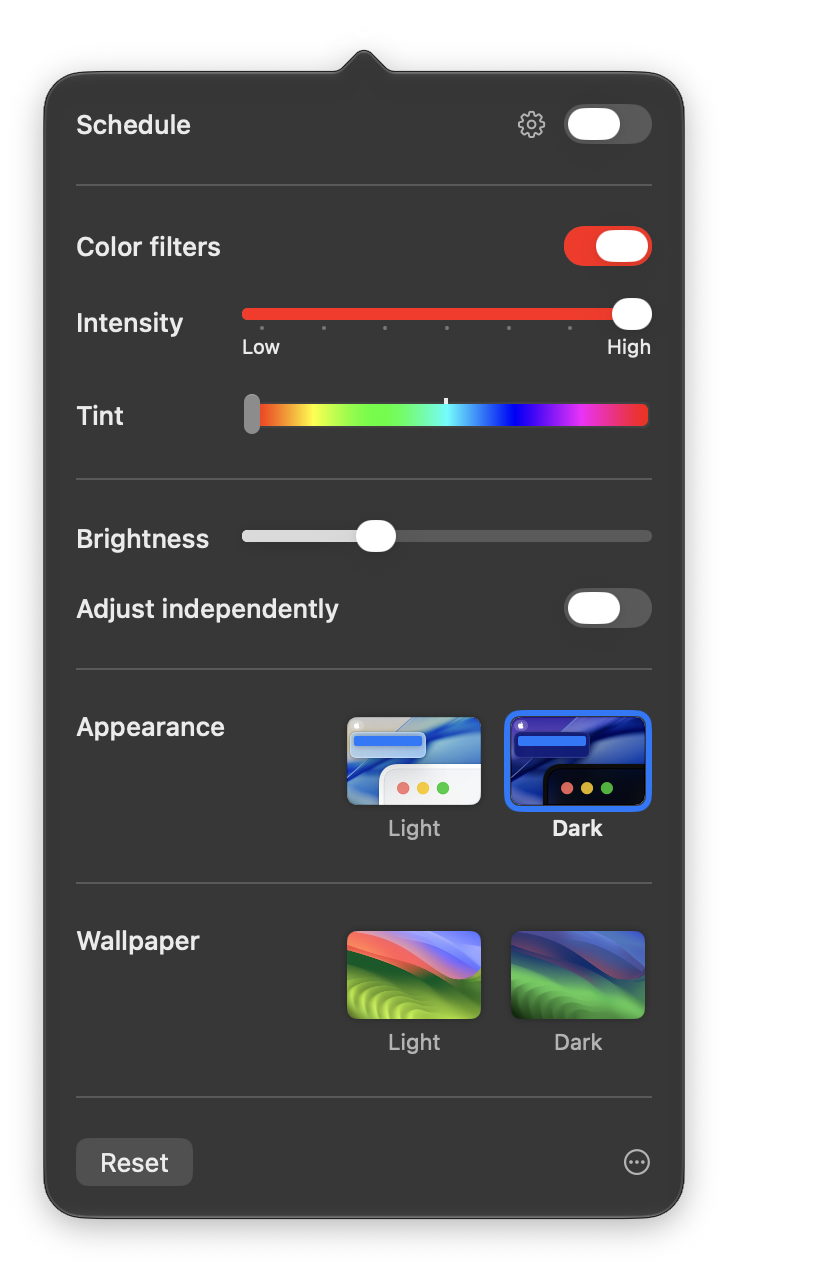
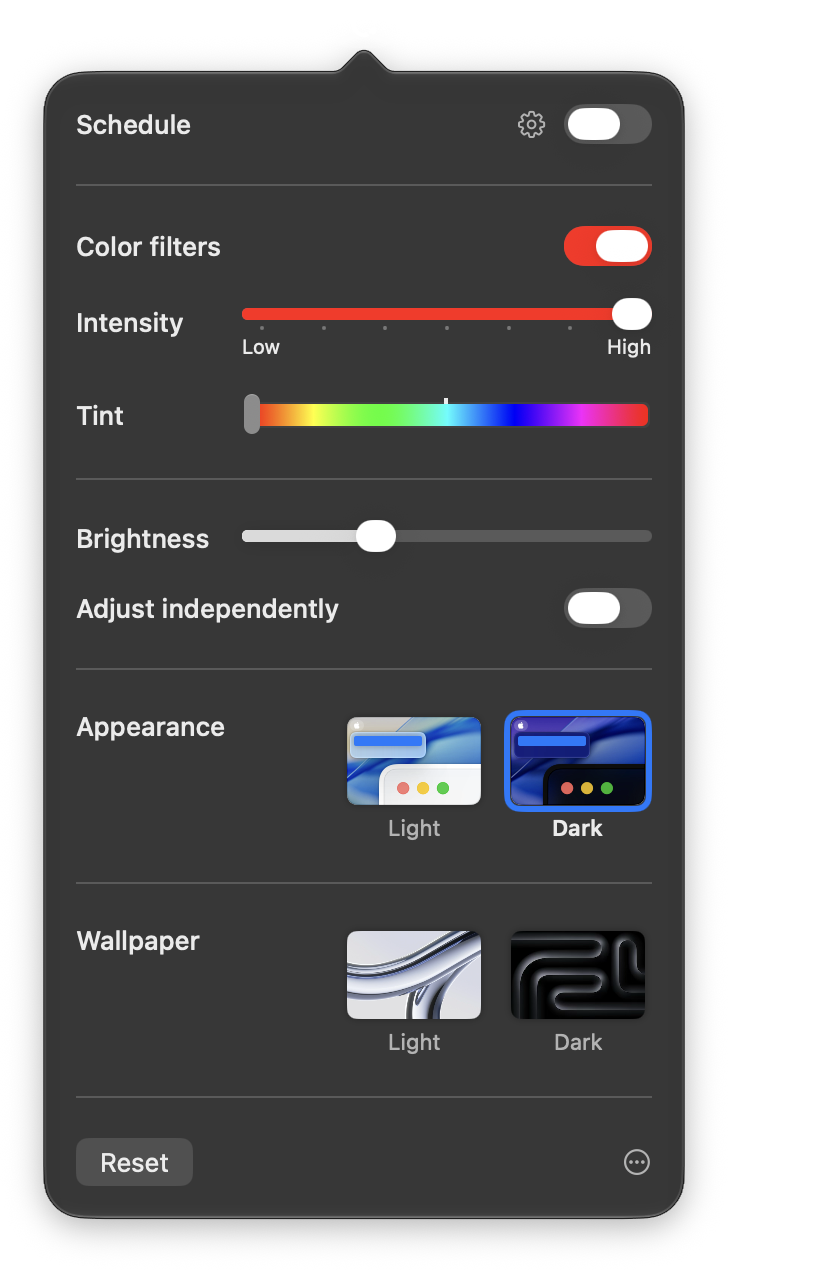
Show the wallpapers the Studio Display has in the README's pictures of the popover: Hello Metallic Silver for Light and Pro Black for Dark rather than Sonoma's two. scripts/screenshots/main.swift makes one wallpaper of System Settings' thumbnails of them, which every Mac has, as it does of the deskt

Changed region(s): [[0.4043, 0.7063, 0.7775, 0.8291]]

diff --git a/scripts/screenshots/main.swift b/scripts/screenshots/main.swift
@@ -144,15 +144,17 @@ final class Screenshots: NSObject, NSApplicationDelegate {
         }
         controller.brightness = evening.brightness
         controller.chooseAppearance(isDark: isDark) // which only the Appearance picker shows
-        // And macOS's own Light and Dark wallpaper, which only the Wallpaper picker shows: it's only
-        // read, as the desktop isn't changed unless a picture is chosen
-        var wallpaper = URL(fileURLWithPath: "/System/Library/Desktop Pictures/Sonoma.heic")
-        if let desktopLight, let desktopDark {
-            // The desktop's own, in one wallpaper as Safelight makes it when a picture is chosen for each
-            wallpaper = FileManager.default.temporaryDirectory.appendingPathComponent("Safelight Screenshots wallpaper.heic")
-            guard WallpaperManager.makeWallpaper(at: wallpaper, light: (desktopLight, false), dark: (desktopDark, true)) else {
-                fail("Couldn't make a wallpaper of \(desktopLight.path) and \(desktopDark.path)")
-            }
+        // And the wallpaper, which only the Wallpaper picker shows: it's only read, as the desktop isn't
+        // changed unless a picture is chosen. Hello Metallic Silver for Light and Pro Black for Dark, from
+        // System Settings' thumbnails of them, which every Mac has (the pictures themselves are
+        // downloaded when picked), or over a desktop, the desktop's own. In one wallpaper, as Safelight
+        // makes it when a picture is chosen for each.
+        let thumbnails = URL(fileURLWithPath: "/System/Library/Desktop Pictures/.thumbnails")
+        let light = desktopLight ?? thumbnails.appendingPathComponent("Hello Metallic Silver.heic")
+        let dark = desktopDark ?? thumbnails.appendingPathComponent("Pro Black.heic")
+        let wallpaper = FileManager.default.temporaryDirectory.appendingPathComponent("Safelight Screenshots wallpaper.heic")
+        guard WallpaperManager.makeWallpaper(at: wallpaper, light: (light, false), dark: (dark, desktopDark != nil)) else {
+            fail("Couldn't make a wallpaper of \(light.path) and \(dark.path)")
         }
         WallpaperManager.shared.showPictures(of: wallpaper)
         drawOnceInMenuBar()
